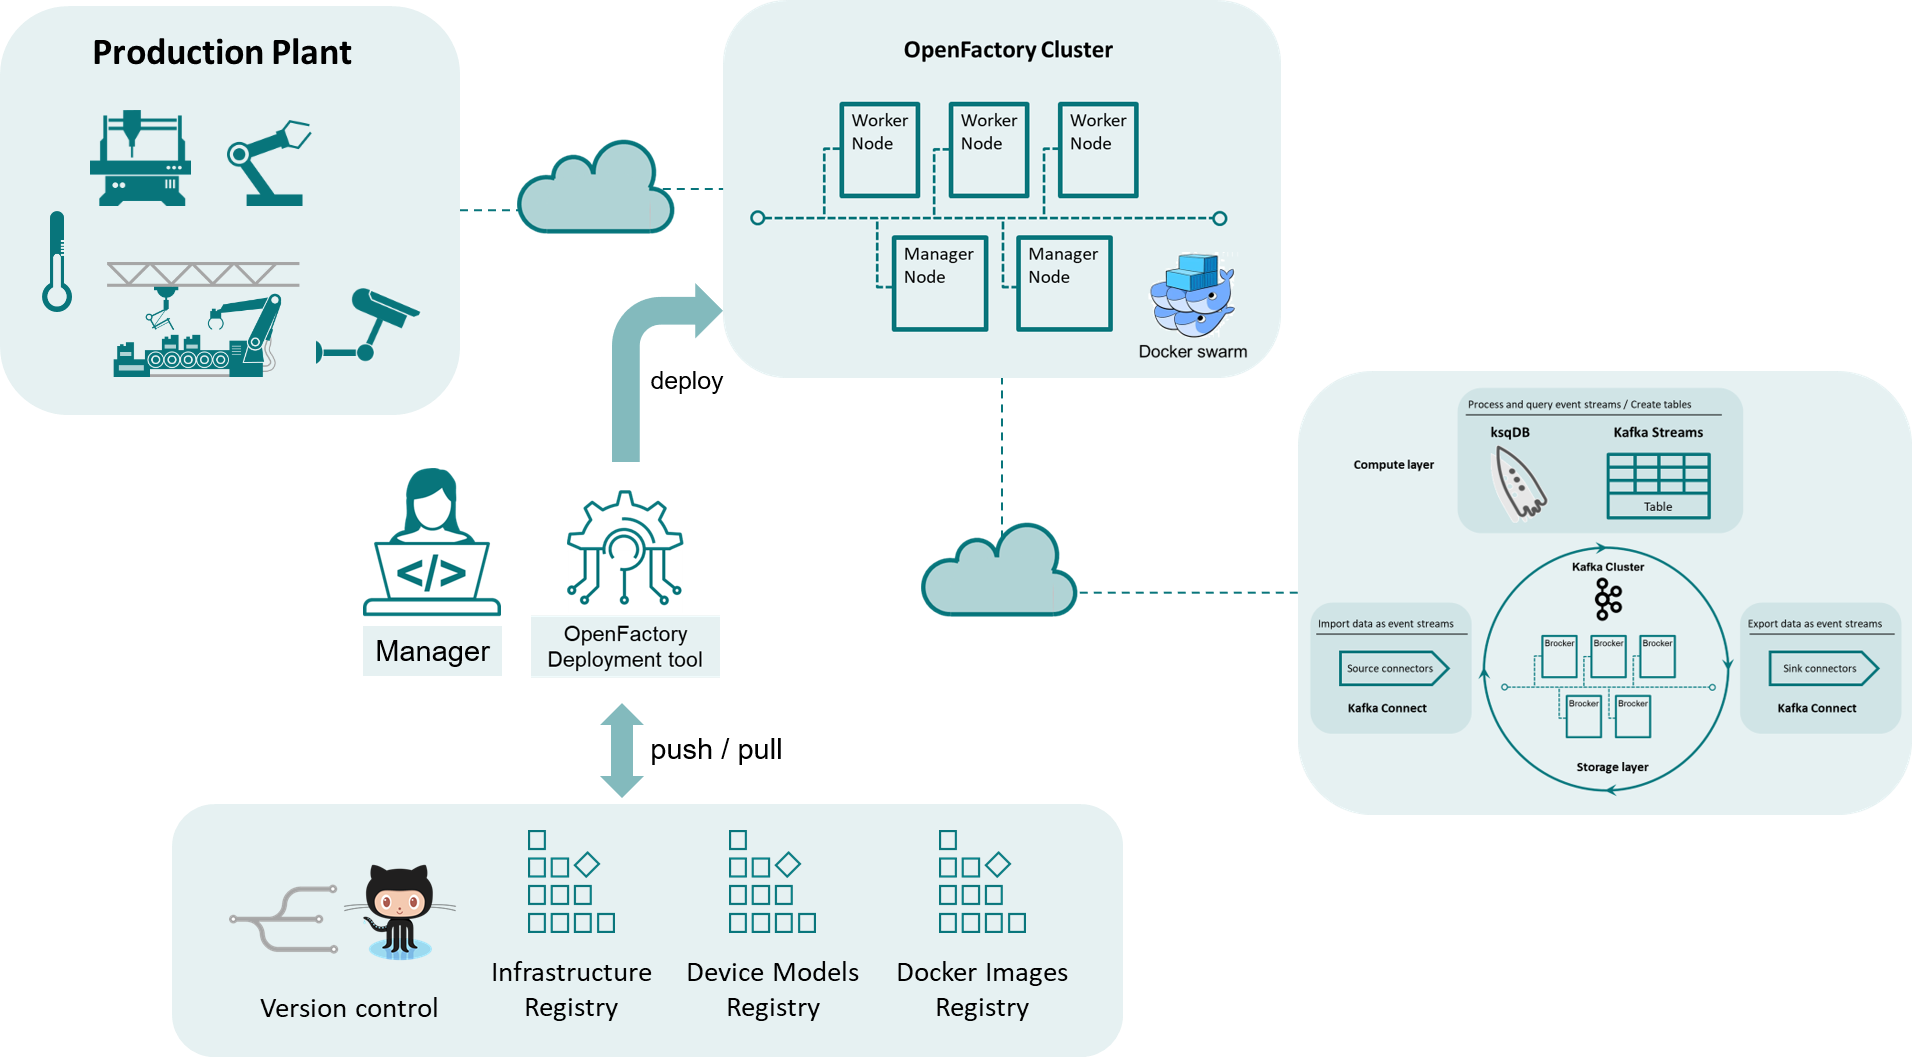
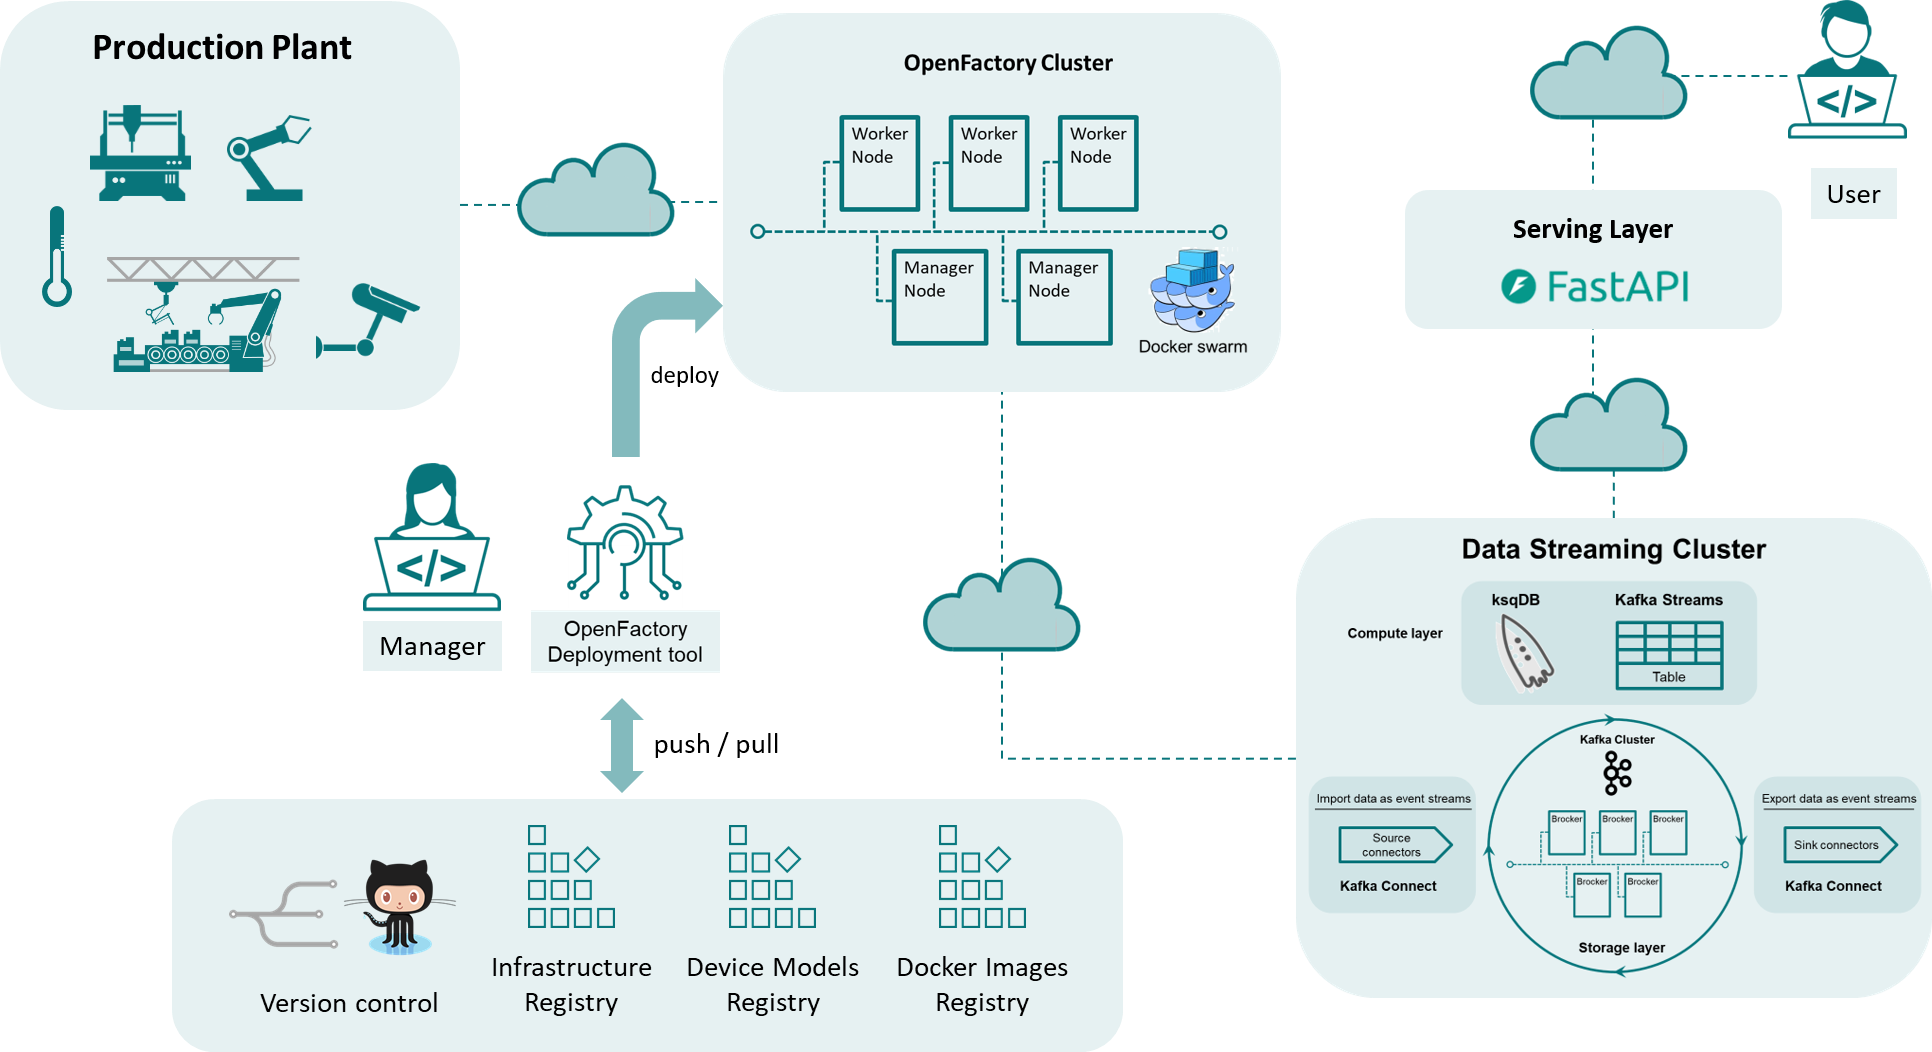
Update doc

diff --git a/openfactory/openfactory_manager.py b/openfactory/openfactory_manager.py
@@ -50,7 +50,7 @@ class OpenFactoryManager(OpenFactory):
             bootstrap_servers (str): The Kafka bootstrap server address. Defaults to config.KAFKA_BROKER.
 
         Note:
-            The deployment strategy to use (e.g., swarm or docker) is selected based on config.DEPLOYMENT_PLATFORM
+            The deployment strategy to use (e.g., swarm or docker) is selected based on `config.DEPLOYMENT_PLATFORM`
         """
         super().__init__(ksqlClient, bootstrap_servers)
         platform_cls = load_plugin("openfactory.deployment_platforms", config.DEPLOYMENT_PLATFORM)

diff --git a/docs/about/ofa_overview.md b/docs/about/ofa_overview.md
@@ -1,0 +1,76 @@
+# OpenFactory Overview
+
+**OpenFactory** is a modular, software framework designed to support the development and operation of data-centric, event-driven industrial systems. It provides a scalable, real-time infrastructure for monitoring, analyzing, and controlling industrial assets through a distributed, fault-tolerant streaming architecture. Grounded in the principles of **Industry 4.0**, OpenFactory enables the **virtualization of physical assets** and their orchestration via a **data stream-based control loop**.
+
+## Architectural Foundations
+
+OpenFactory is organized around a **Kappa architecture**, in which data flows unidirectionally from sources (industrial assets) into a persistent stream processing layer, and actions can be emitted downstream to influence those same assets. 
+
+![OpenFactory Kapa Architecture](../_static/images/OFA-Kapa.png)
+
+The system supports **hybrid deployment modes**, operating across on-premise edge systems and cloud environments, with elasticity, fault tolerance, and high throughput.
+
+To fully implement this architecture, OpenFactory relies on the following core building blocks:
+
+![OpenFactory Building Blocs](../_static/images/OFAArchitecture.png)
+
+### 1. The Factory (Physical Layer)
+
+At the lowest layer are the **physical assets**, such as machines, sensors, actuators, and industrial controllers. These assets are considered **data producers and consumers**, capable of both emitting real-time telemetry and receiving control commands.
+
+Each asset is semantically modeled following closley exisitng standards (MTConnect, RAMI4.0) and virtualized into the system through specialized **connectors**, which translate between industrial protocols (e.g., OPC UA, Modbus, MTConnect) and the OpenFactory data model.
+
+---
+
+### 2. The OpenFactory Cluster (Service and Orchestration Layer)
+
+This layer hosts the **microservices** that interface with physical assets, perform stream processing, and serve user applications. The cluster is managed using **Docker Swarm**, enabling resilient and distributed deployments across heterogeneous compute environments.
+
+Microservices deployed in the OpenFactory cluster include:
+
+* **Connectors** to ingest data from assets and send actions back
+* **Stream processors** (Python or ksqlDB-based)
+* **Serving applications** such as dashboards, APIs, or alerts
+
+The cluster acts as a programmable runtime where service composition, deployment, and scaling are fully automated and driven by version-controlled configuration files.
+
+---
+
+### 3. The Kafka Cluster (Streaming Backbone)
+
+The **Kafka cluster** is the central data plane of OpenFactory. It provides:
+
+* **Persistent and ordered streams** of events from industrial assets
+* **Topic-based routing** of data across the system
+* **High throughput and low latency**, supporting real-time processing at scale
+
+Stream processing is performed through:
+
+* **ksqlDB**: a SQL-like engine for declarative stream analytics (e.g., filtering, aggregation, enrichment)
+* **Custom Python services** for advanced logic (e.g., anomaly detection, machine learning inference)
+
+All asset interactions—both data ingestion and control signals—pass through Kafka topics, enabling complete observability and replayability of asset behavior.
+
+---
+
+### 4. The Repositories (Infrastructure and Knowledge Layer)
+
+OpenFactory emphasizes **Infrastructure as Code (IaC)** and **Versioned Asset Models**. This layer includes:
+
+* **Configuration repositories**, defining service deployment, Kafka topics, and ksqlDB queries
+* **Asset model repositories**, encoding metadata, identifiers, and behavioral models of each physical asset
+* **Docker image registries**, storing containerized versions of OpenFactory services and connectors
+
+By externalizing all definitions into version-controlled repositories (e.g., Git), OpenFactory enables consistent deployments, rollback capabilities, CI/CD pipelines, and collaborative development across teams.
+
+---
+
+### 5. External Users and Applications (Serving Layer)
+
+External stakeholders—such as operators, engineers, analysts, or third-party applications—interact with OpenFactory through the **serving layer** of the Kappa architecture. This includes:
+
+* **User-facing services** (e.g., dashboards, REST APIs)
+* **Streaming APIs** (e.g., WebSocket or Server-Sent Events endpoints)
+* **Data export tools** (e.g., time-series databases, external BI systems)
+
+The serving layer provides access to both **raw and processed data**, enabling integration with enterprise systems (e.g., ERP, MES), and supports the development of **data-driven decision-making** tools such as predictive maintenance systems or adaptive process controllers.

diff --git a/docs/MANIFESTO.md b/docs/MANIFESTO.md
@@ -1,4 +1,4 @@
-# 🏭 OpenFactory Manifesto
+# OpenFactory Manifesto
 
 > **Making the Physical World Versionable, Testable, Programmable — and Connected at Scale**
 

diff --git a/docs/about.rst b/docs/about.rst
@@ -5,3 +5,4 @@ About
     :maxdepth: 1
 
     MANIFESTO
+    about/ofa_overview
